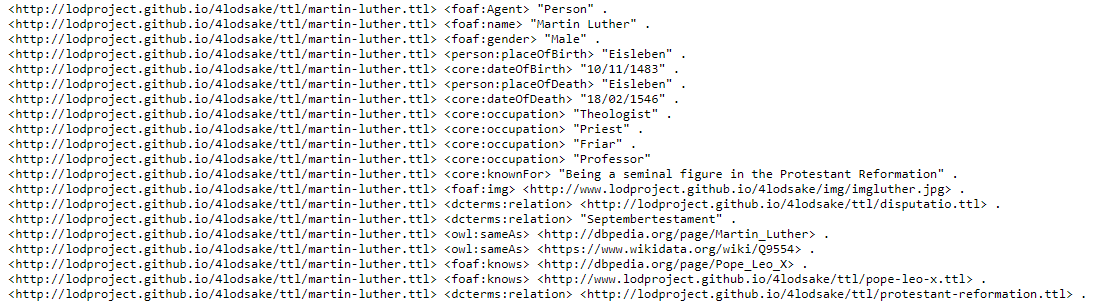
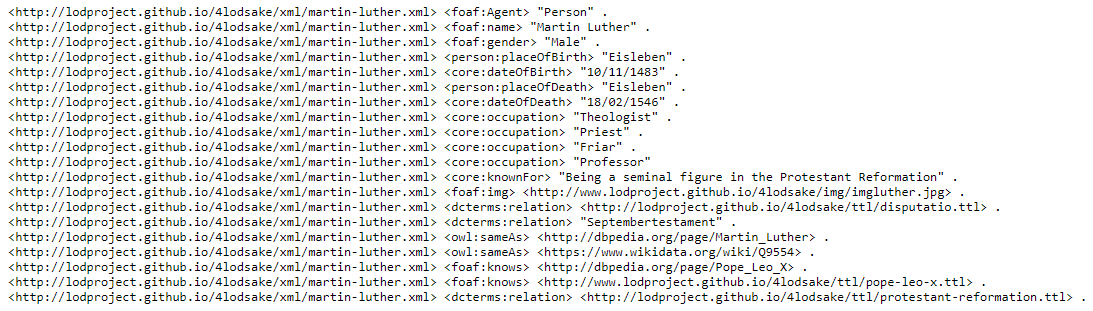
another nt

Changed region(s): [[0.0, 0.0, 0.9954, 1.0]]

diff --git a/index.html b/index.html
@@ -2090,7 +2090,7 @@
 			<div class="subheading mb-3">Event</div>
             <p>For the <b>Event</b> category, we analyzed our only event: 
 			<ul>
-				<li><b>Protestant Reformation</b>. See the <a data-toggle="modal" href="#xmlproref">XML </a>file, the <a data-toggle="modal" href="#turtleproref">TURTLE </a>file or the <a data-toggle="modal" href="#graphproref">graph</a> representation.
+				<li><b>Protestant Reformation</b>. See the <a data-toggle="modal" href="#xmlproref">XML </a>file, the <a data-toggle="modal" href="#turtleproref">TURTLE </a>file, the <a data-toggle="modal" href="#ntproref">N-Triples</a> file or the <a data-toggle="modal" href="#graphproref">graph</a> representation.
 			</ul>
 			</p>
 			<div class="subheading mb-3">Concept</div>
@@ -2184,7 +2184,7 @@
   
   
   	<!--Modal for Martin Luther N-TRIPLES-->
-  <div class="portfolio-modal modal fade" id="ntemartin" tabindex="-1" role="dialog" aria-hidden="true">
+  <div class="portfolio-modal modal fade" id="ntmartin" tabindex="-1" role="dialog" aria-hidden="true">
     <div class="modal-dialog modal-lg">
       <div class="modal-content">
         <div class="close-modal" data-dismiss="modal">
@@ -2708,6 +2708,39 @@
               <div class="modal-body">
                 <p align="justify"><a href="http://lodproject.github.io/4lodsake/ttl/protestant-reformation.ttl" target="_blank"><img class="img-fluid" src="img/protestant-reformation-ttl.png" alt=""></a></p>
 				<p>This is just a preview. Click <a href="http://lodproject.github.io/4lodsake/ttl/protestant-reformation.ttl" target="_blank">here</a> or on the image to see the real file.</p>
+
+				        <div class="modal-footer">
+						<button type="button" class="btn btn-danger" data-dismiss="modal"> <i class="fas fa-times"></i>
+						Close</button>
+						</div>
+              </div>
+            </div>
+          </div>
+        </div>
+      </div>
+    </div>
+  </div>
+ 
+ 
+   	<!--Modal for Protestant Reformation N-TRIPLES-->
+  <div class="portfolio-modal modal fade" id="ntproref" tabindex="-1" role="dialog" aria-hidden="true">
+    <div class="modal-dialog modal-lg">
+      <div class="modal-content">
+        <div class="close-modal" data-dismiss="modal">
+          <div class="lr">
+            <div class="rl"> </div>
+			        <div class="modal-header">
+					<h4 class="modal-title">Protestant Reformation: N-TRIPLES</h4>
+					<button type="button" class="close" data-dismiss="modal">&times;</button>
+					</div>
+          </div>
+        </div>
+        <div class="container">
+          <div class="row">
+            <div class="col-lg-10 mx-auto">
+              <div class="modal-body">
+                <p align="justify"><a href="http://lodproject.github.io/4lodsake/nt/protestant-reformation.nt" target="_blank"><img class="img-fluid" src="img/protestant-reformation-nt.png" alt=""></a></p>
+				<p>This is just a preview. Click <a href="http://lodproject.github.io/4lodsake/nt/protestant-reformation.nt" target="_blank">here</a> or on the image to see the real file.</p>
 
 				        <div class="modal-footer">
 						<button type="button" class="btn btn-danger" data-dismiss="modal"> <i class="fas fa-times"></i>
